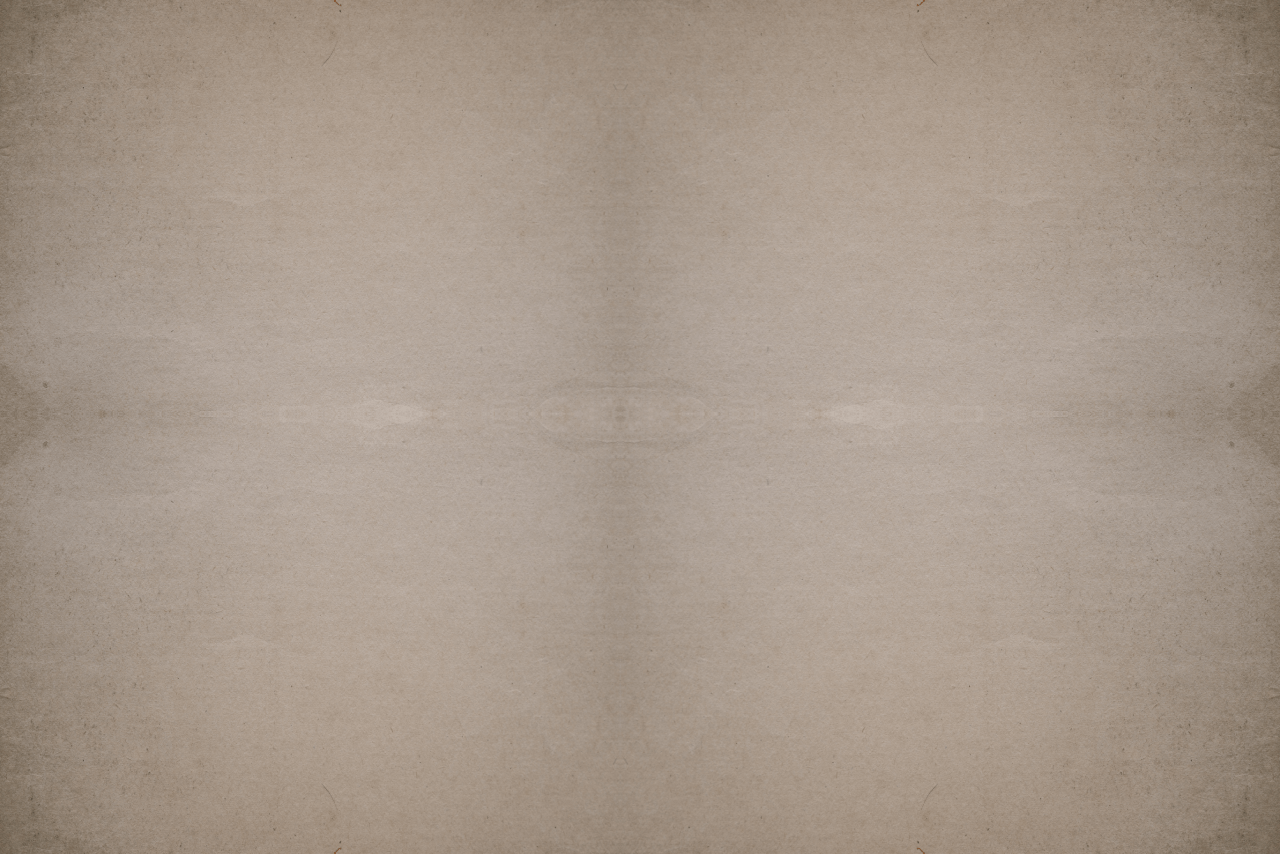
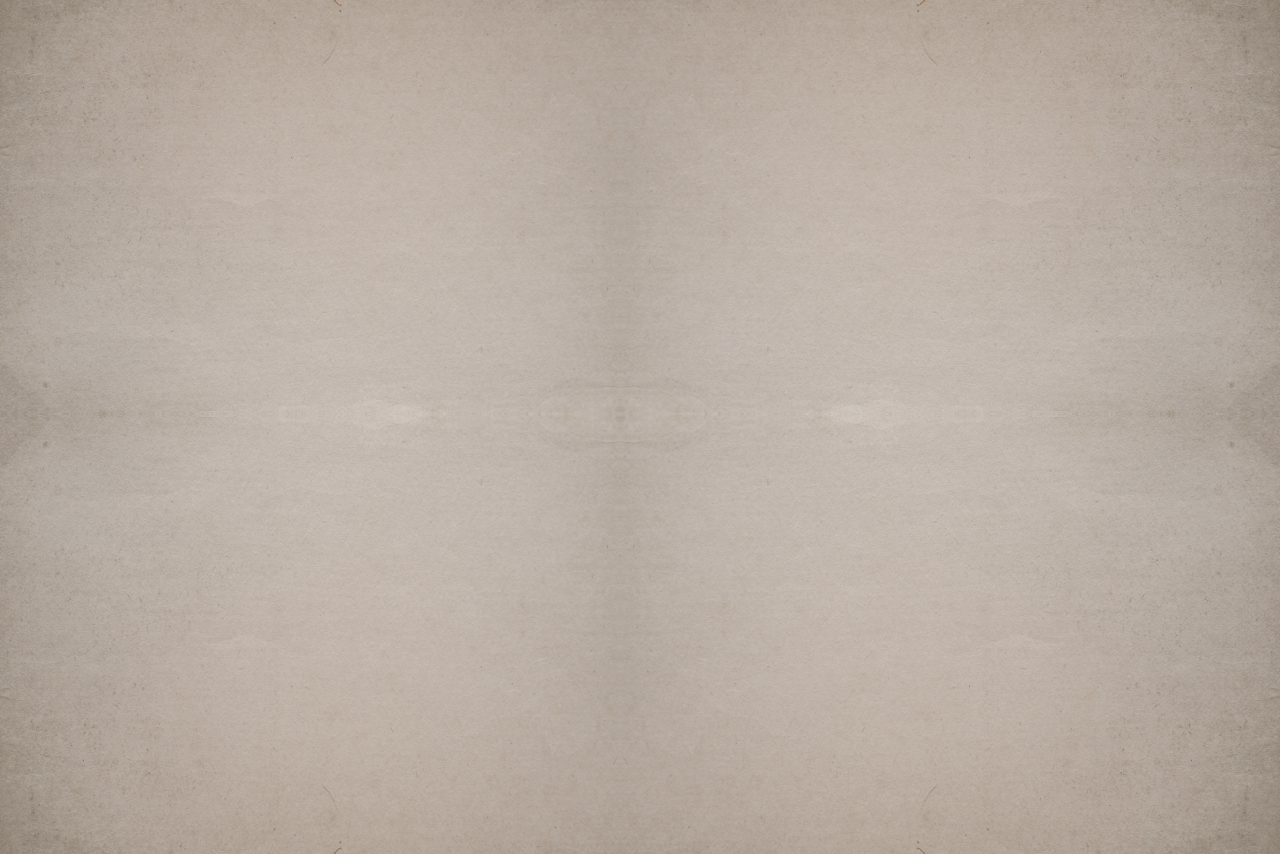
background-image-change

Changed region(s): [[0.0, 0.0, 1.0, 1.0], [0.4688, 0.548, 0.5, 0.5785], [0.4688, 0.3958, 0.5, 0.4262]]

diff --git a/client/src/Style.css b/client/src/Style.css
@@ -1,6 +1,14 @@
 /* just to proof that the connection works */
 body {
-    background-color: lightblue;
+    background-color: floralwhite;
+    background-image: url("https://github.com/pgmdf/summer-is-coming/blob/master/client/public/background-pattern.png?raw=true");
+    background-position: 0 0;
+    background-repeat: repeat-x -y;
+    color: #53595B;
+}
+
+.link {
+    color: #17838A;
 }
 
 .img-max-width {
